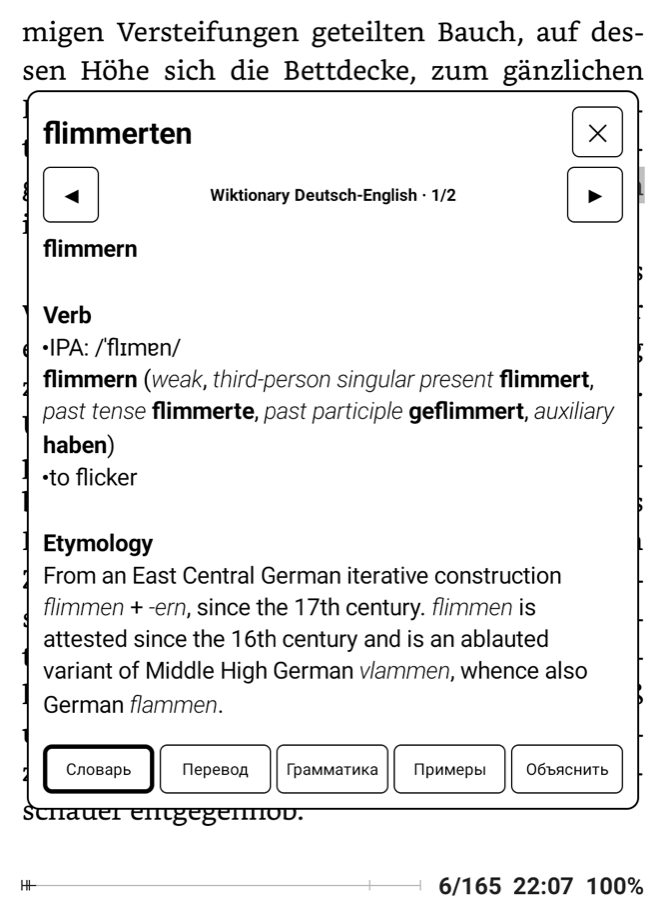
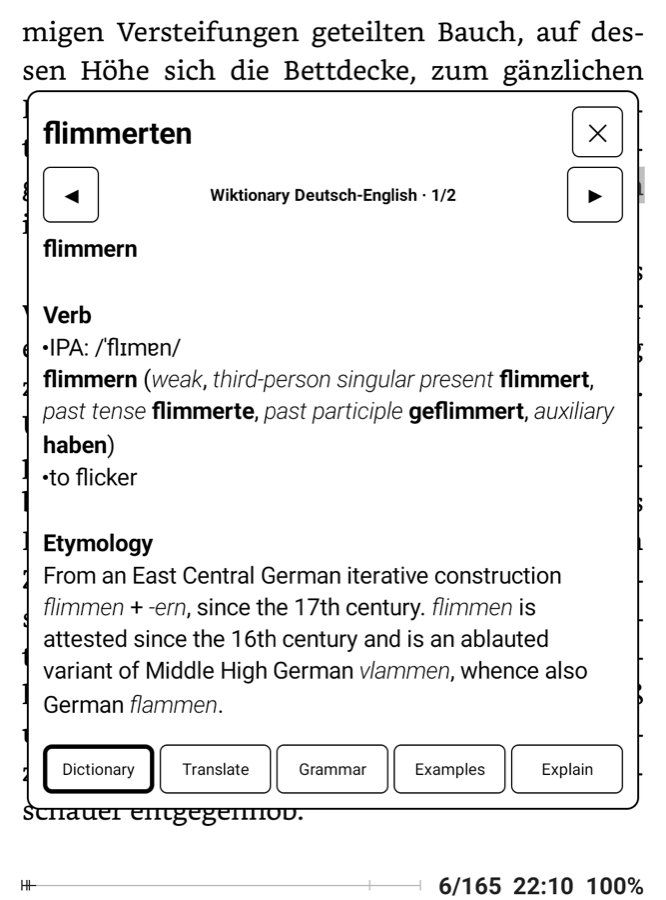
README screenshots (Boox Go 6, FBReader, Kafka); size stepper, provider change refreshes status, prices and language names in the app locale

diff --git a/app/src/main/java/io/github/kafeg/inkpeek/ui/MainActivity.kt b/app/src/main/java/io/github/kafeg/inkpeek/ui/MainActivity.kt
@@ -202,7 +202,7 @@ class MainActivity : Activity(), CoroutineScope by MainScope() {
             }
             model.text = getString(R.string.model, prefs.model(p).ifBlank { getString(R.string.model_choose) })
         }
-        t.addView(spinner(providers.map { it.title }, providers.indexOf(prefs.provider)) { prefs.provider = providers[it]; load(providers[it]) })
+        t.addView(spinner(providers.map { it.title }, providers.indexOf(prefs.provider)) { prefs.provider = providers[it]; load(providers[it]); refreshDicts() })
         t.addView(key)
         t.addView(Ink.button(this, getString(R.string.save_key), sp) { prefs.setKey(prefs.provider, key.text.toString()); load(prefs.provider); toast(getString(R.string.saved)) })
         t.addView(keyInfo, Ink.lp().apply { topMargin = Ink.dp(this@MainActivity, 6) })
@@ -210,8 +210,9 @@ class MainActivity : Activity(), CoroutineScope by MainScope() {
         t.addView(model, Ink.lp().apply { topMargin = Ink.dp(this@MainActivity, 12) })
         t.addView(Ink.text(this, getString(R.string.answer_lang_t), 14f), Ink.lp().apply { topMargin = Ink.dp(this@MainActivity, 12) })
         val langs = (LANGS + prefs.answerLang).distinct()
+        val here = resources.configuration.locales[0]
         val shown = langs.map { name -> java.util.Locale.getAvailableLocales().firstOrNull { it.getDisplayLanguage(java.util.Locale.ENGLISH) == name }
-            ?.getDisplayLanguage(java.util.Locale.getDefault())?.replaceFirstChar { it.uppercase() } ?: name }
+            ?.getDisplayLanguage(here)?.replaceFirstChar { it.uppercase() } ?: name }
         t.addView(spinner(shown, langs.indexOf(prefs.answerLang)) { prefs.answerLang = langs[it] })
         load(prefs.provider)
     }
@@ -236,7 +237,7 @@ class MainActivity : Activity(), CoroutineScope by MainScope() {
         var shown = models
         fun label(m: ModelInfo) = m.id + when {
             m.free -> "  · " + getString(R.string.free)
-            m.price != null -> "  · $%.2f/$%.2f".format(m.price.first, m.price.second)
+            m.price != null -> "  · $%.2f/$%.2f".format(java.util.Locale.US, m.price.first, m.price.second)
             else -> ""
         } + if (m.context > 0) "  · ${m.context / 1000}k" else ""
         fun apply() {
@@ -274,7 +275,14 @@ class MainActivity : Activity(), CoroutineScope by MainScope() {
         t.addView(Ink.text(this, getString(R.string.ui_lang), 14f))
         t.addView(spinner(names, codes.indexOf(prefs.uiLang).coerceAtLeast(0)) { prefs.uiLang = codes[it]; recreate() })
         t.addView(Ink.text(this, getString(R.string.text_size), 14f))
-        t.addView(edit("20", prefs.fontSp.toString(), number = true) { it.toIntOrNull()?.let { v -> prefs.fontSp = v.coerceIn(12, 40) } })
+        val sizeRow = Ink.horizontal(this).apply { gravity = Gravity.CENTER_VERTICAL }
+        val sizeView = Ink.text(this, prefs.fontSp.toString(), sp, bold = true).apply { gravity = Gravity.CENTER }
+        fun step(by: Int) { prefs.fontSp = (prefs.fontSp + by).coerceIn(12, 40); sizeView.text = prefs.fontSp.toString() }
+        val w = Ink.dp(this, 56)
+        sizeRow.addView(Ink.button(this, "−", sp) { step(-2) }.apply { setPadding(0, 0, 0, 0) }, LinearLayout.LayoutParams(w, w))
+        sizeRow.addView(sizeView, LinearLayout.LayoutParams(w * 2, w))
+        sizeRow.addView(Ink.button(this, "+", sp) { step(2) }.apply { setPadding(0, 0, 0, 0) }, LinearLayout.LayoutParams(w, w))
+        t.addView(sizeRow)
         t.addView(switch(getString(R.string.dim), prefs.dim) { prefs.dim = it })
         val pos = listOf("center", "top", "bottom", "reader")
         val posLabels = listOf(R.string.pos_center, R.string.pos_top, R.string.pos_bottom, R.string.pos_reader).map { getString(it) }

diff --git a/README.md b/README.md
@@ -8,7 +8,17 @@ Select a word in your reading app and a calm, high-contrast card opens over the 
 StarDict dictionaries, and tabs that ask an AI to translate in context, explain the grammar, list the harder words or
 give examples. Close the card and you are on the same page.
 
-<!-- screenshots: docs/img/*.png -->
+<p align="center">
+  <img src="docs/img/card-dictionary.png" width="240" alt="Dictionary tab over a page in FBReader">
+  <img src="docs/img/card-translate-word.png" width="240" alt="Translate tab for a word">
+  <img src="docs/img/card-grammar.png" width="240" alt="Grammar tab for a sentence">
+</p>
+<p align="center">
+  <img src="docs/img/card-translate-phrase.png" width="240" alt="A selected sentence opens on Translate">
+  <img src="docs/img/settings-card.png" width="240" alt="Card settings: choose the AI tabs">
+  <img src="docs/img/settings-models.png" width="240" alt="OpenRouter models: free only">
+</p>
+<p align="center"><sub>Onyx Boox Go 6, FBReader, Franz Kafka «Die Verwandlung» (public domain).</sub></p>
 
 ## What it does
 - **Dictionary tab** — your StarDict dictionaries, one per screen, ◀ ▶ to page between them. Inflected forms are
